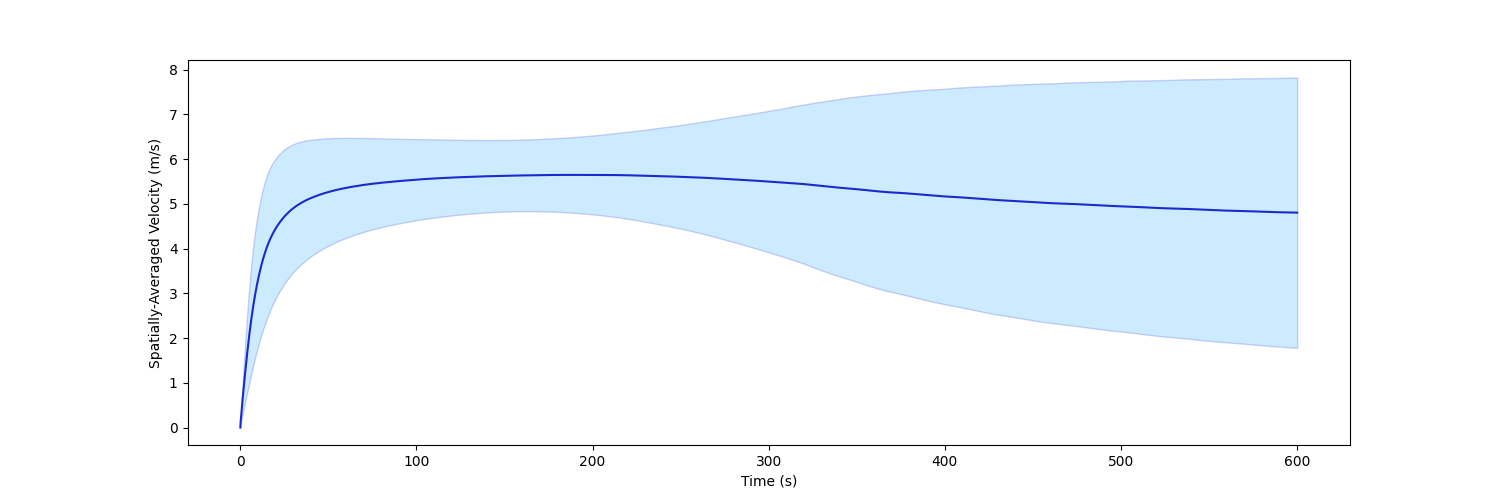
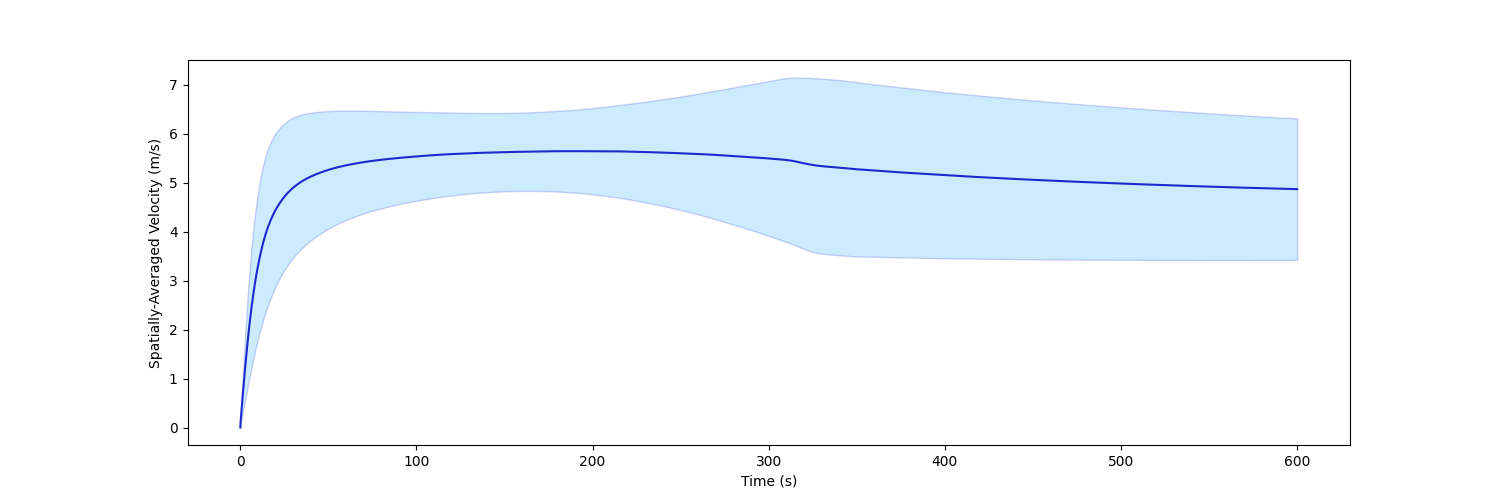
reward change

diff --git a/Ring_Road/metrics.py b/Ring_Road/metrics.py
@@ -1,4 +1,5 @@
 import math
+from typing import List
 
 import numpy as np
 
@@ -104,7 +105,7 @@ class Metrics:
         if self.env.algorithm == "dqn":
             plt.savefig("Plots/DQN/SpaceTime_New1.png")
         elif self.env.algorithm == "ppo":
-            plt.savefig("Plots/PPO/SpaceTime_New1.png")
+            plt.savefig("Plots/PPO/SpaceTimeSmoothed_New1.png")
         elif self.env.algorithm == "fs":
             plt.savefig("Plots/FollowerStopper/SpaceTime_New1.png")
 
@@ -115,13 +116,13 @@ class Metrics:
             plt.plot(self.convert_action_steps_to_time(x), y, color='gray')
         for ag in self.env.agents:
             x, y = zip(*self.velocity[ag.id])
-            plt.plot(self.convert_action_steps_to_time(x), y, color='r')
+            plt.plot(self.convert_action_steps_to_time(x), self.smooth(y, 0.9), color='r')
         plt.xlabel("Time (s)")
         plt.ylabel("Velocity (m/s)")
         if self.env.algorithm == "dqn":
             plt.savefig("Plots/DQN/VelocityProfile_New1.png")
         elif self.env.algorithm == "ppo":
-            plt.savefig("Plots/PPO/VelocityProfile_New1.png")
+            plt.savefig("Plots/PPO/VelocityProfileSmoothed_New1.png")
         elif self.env.algorithm == "fs":
             plt.savefig("Plots/FollowerStopper/VelocityProfile_New1.png")
 
@@ -139,7 +140,16 @@ class Metrics:
         if self.env.algorithm == "dqn":
             plt.savefig("Plots/DQN/AverageVelocity_New1.png")
         elif self.env.algorithm == "ppo":
-            plt.savefig("Plots/PPO/AverageVelocity_New1.png")
+            plt.savefig("Plots/PPO/AverageVelocitySmoothed_New1.png")
         elif self.env.algorithm == "fs":
             plt.savefig("Plots/FollowerStopper/AverageVelocity_New1.png")
 
+    def smooth(self, scalars: List[float], weight: float) -> List[float]:  # Weight between 0 and 1
+        last = scalars[0]  # First value in the plot (first timestep)
+        smoothed = list()
+        for point in scalars:
+            smoothed_val = last * weight + (1 - weight) * point  # Calculate smoothed value
+            smoothed.append(smoothed_val)  # Save it
+            last = smoothed_val  # Anchor the last smoothed value
+
+        return smoothed

diff --git a/Ring_Road/vehicle/vehicle.py b/Ring_Road/vehicle/vehicle.py
@@ -102,7 +102,7 @@ class Agent(Car):
             v_cmd = v * ((s - delta_x1) / (delta_x2 - delta_x1))
             print("delta2: {}".format(v_cmd))
         elif s <= delta_x3:
-            v_cmd = v + (abs(self.desired_vel - v) * ((s - delta_x2) / (delta_x3 - delta_x2)))
+            v_cmd = v + ((self.desired_vel - v) * ((s - delta_x2) / (delta_x3 - delta_x2)))
             print("delta3: {}".format(v_cmd))
         elif s > delta_x3:
             v_cmd = self.desired_vel
@@ -155,7 +155,7 @@ class Agent(Car):
 
         return self.acc
 
-    def _run_control(self):
+    def _run_control(self, avg_vel=None):
         accel_action = None
         if self.agent_type == "idm":
             accel_action = self.idm_control()
@@ -164,7 +164,7 @@ class Agent(Car):
         elif self.agent_type == "continuous":
             accel_action = self._continuous()
         elif self.agent_type == "fs":
-            accel_action = self._follower_stopper(4.15, [1.5, 1, 0.5], [4.5, 5.25, 6])
+            accel_action = self._follower_stopper(avg_vel, [1.5, 1, 0.5], [4.5, 5.25, 6])
         elif self.agent_type == "pi":
             accel_action = self._pi_controller()
         elif self.agent_type == "man":
@@ -178,14 +178,14 @@ class Agent(Car):
         self.v = max(0, min(self.v + (accel_action * DELTA_T), AGENT_MAX_VELOCITY))
         # print("Updated Velocity: {}".format(self.v))
 
-    def step(self, eval_mode, action_steps, agent_type, state_extractor):
+    def step(self, eval_mode, action_steps, agent_type, state_extractor, avg_vel):
         if eval_mode:
             if action_steps > 3000:
                 self.agent_type = agent_type
             else:
                 self.agent_type = "idm"
 
-        accel_action = self._run_control()
+        accel_action = self._run_control(avg_vel)
         accel_action = state_extractor.failsafe_action(accel_action)
         self._update_vel(accel_action)
         self.update_positions()

diff --git a/Ring_Road/envs/ringroad.py b/Ring_Road/envs/ringroad.py
@@ -92,13 +92,6 @@ class RingRoad(gym.Env):
                 self.collision = False
                 agent.crashed = False
 
-    def _linear_map(self, value, leftMax, leftMin, rightMax, rightMin):
-        leftSpan = leftMax - leftMin
-        rightSpan = rightMax - rightMin
-
-        valueScaled = float(value - leftMin) / float(leftSpan)
-        return rightMin + (valueScaled * rightSpan)
-
     def _simulate(self, action):
         frames = int(FPS // ACTION_FREQ)
         for frame in range(frames):
@@ -107,7 +100,7 @@ class RingRoad(gym.Env):
                     agent.stored_action = action
 
             for agents in self.agents:
-                agents.step(self.eval_mode, self.action_steps, self.agent_type, self.state_extractor)
+                agents.step(self.eval_mode, self.action_steps, self.agent_type, self.state_extractor, self.state_extractor.get_average_vel())
             for env_veh in self.env_veh:
                 env_veh.step()
             self._handle_collisions()
@@ -133,7 +126,7 @@ class RingRoad(gym.Env):
         reward = self.state_extractor.get_average_vel()
 
         # punish accelerations (should lead to reduced stop-and-go waves)
-        eta = 2  # 0.25
+        eta = 0.5  # 0.25
         mean_actions = eta * np.mean(np.abs(action))
         accel_threshold = 0
 

diff --git a/main.py b/main.py
@@ -17,7 +17,7 @@ def main():
         scripts.train_dqn.evaluate("/home/vamsi/Documents/GitHub/RingRoad-RL/Models/DQN/DQNTrainer_2022-03-03_19-28-07/DQNTrainer_ringroad-v1_f4621_00000_0_2022-03-03_19-28-08/checkpoint_000488/checkpoint-488")
 
     elif args.type == "eval_ppo":
-        scripts.train_ppo.evaluate("/home/vamsi/Documents/GitHub/RingRoad-RL/Models/PPO/PPOTrainer_2022-03-12_07-38-03/PPOTrainer_ringroad-v1_40050_00000_0_2022-03-12_07-38-03/checkpoint_000250/checkpoint-250")
+        scripts.train_ppo.evaluate("/home/vamsi/Documents/GitHub/RingRoad-RL/Models/PPO/PPOTrainer_2022-03-13_07-46-57/PPOTrainer_ringroad-v1_a8da9_00000_0_2022-03-13_07-46-58/checkpoint_000250/checkpoint-250")
 
     elif args.type == "eval_idm":
         scripts.evaluate_idm.evaluate()
